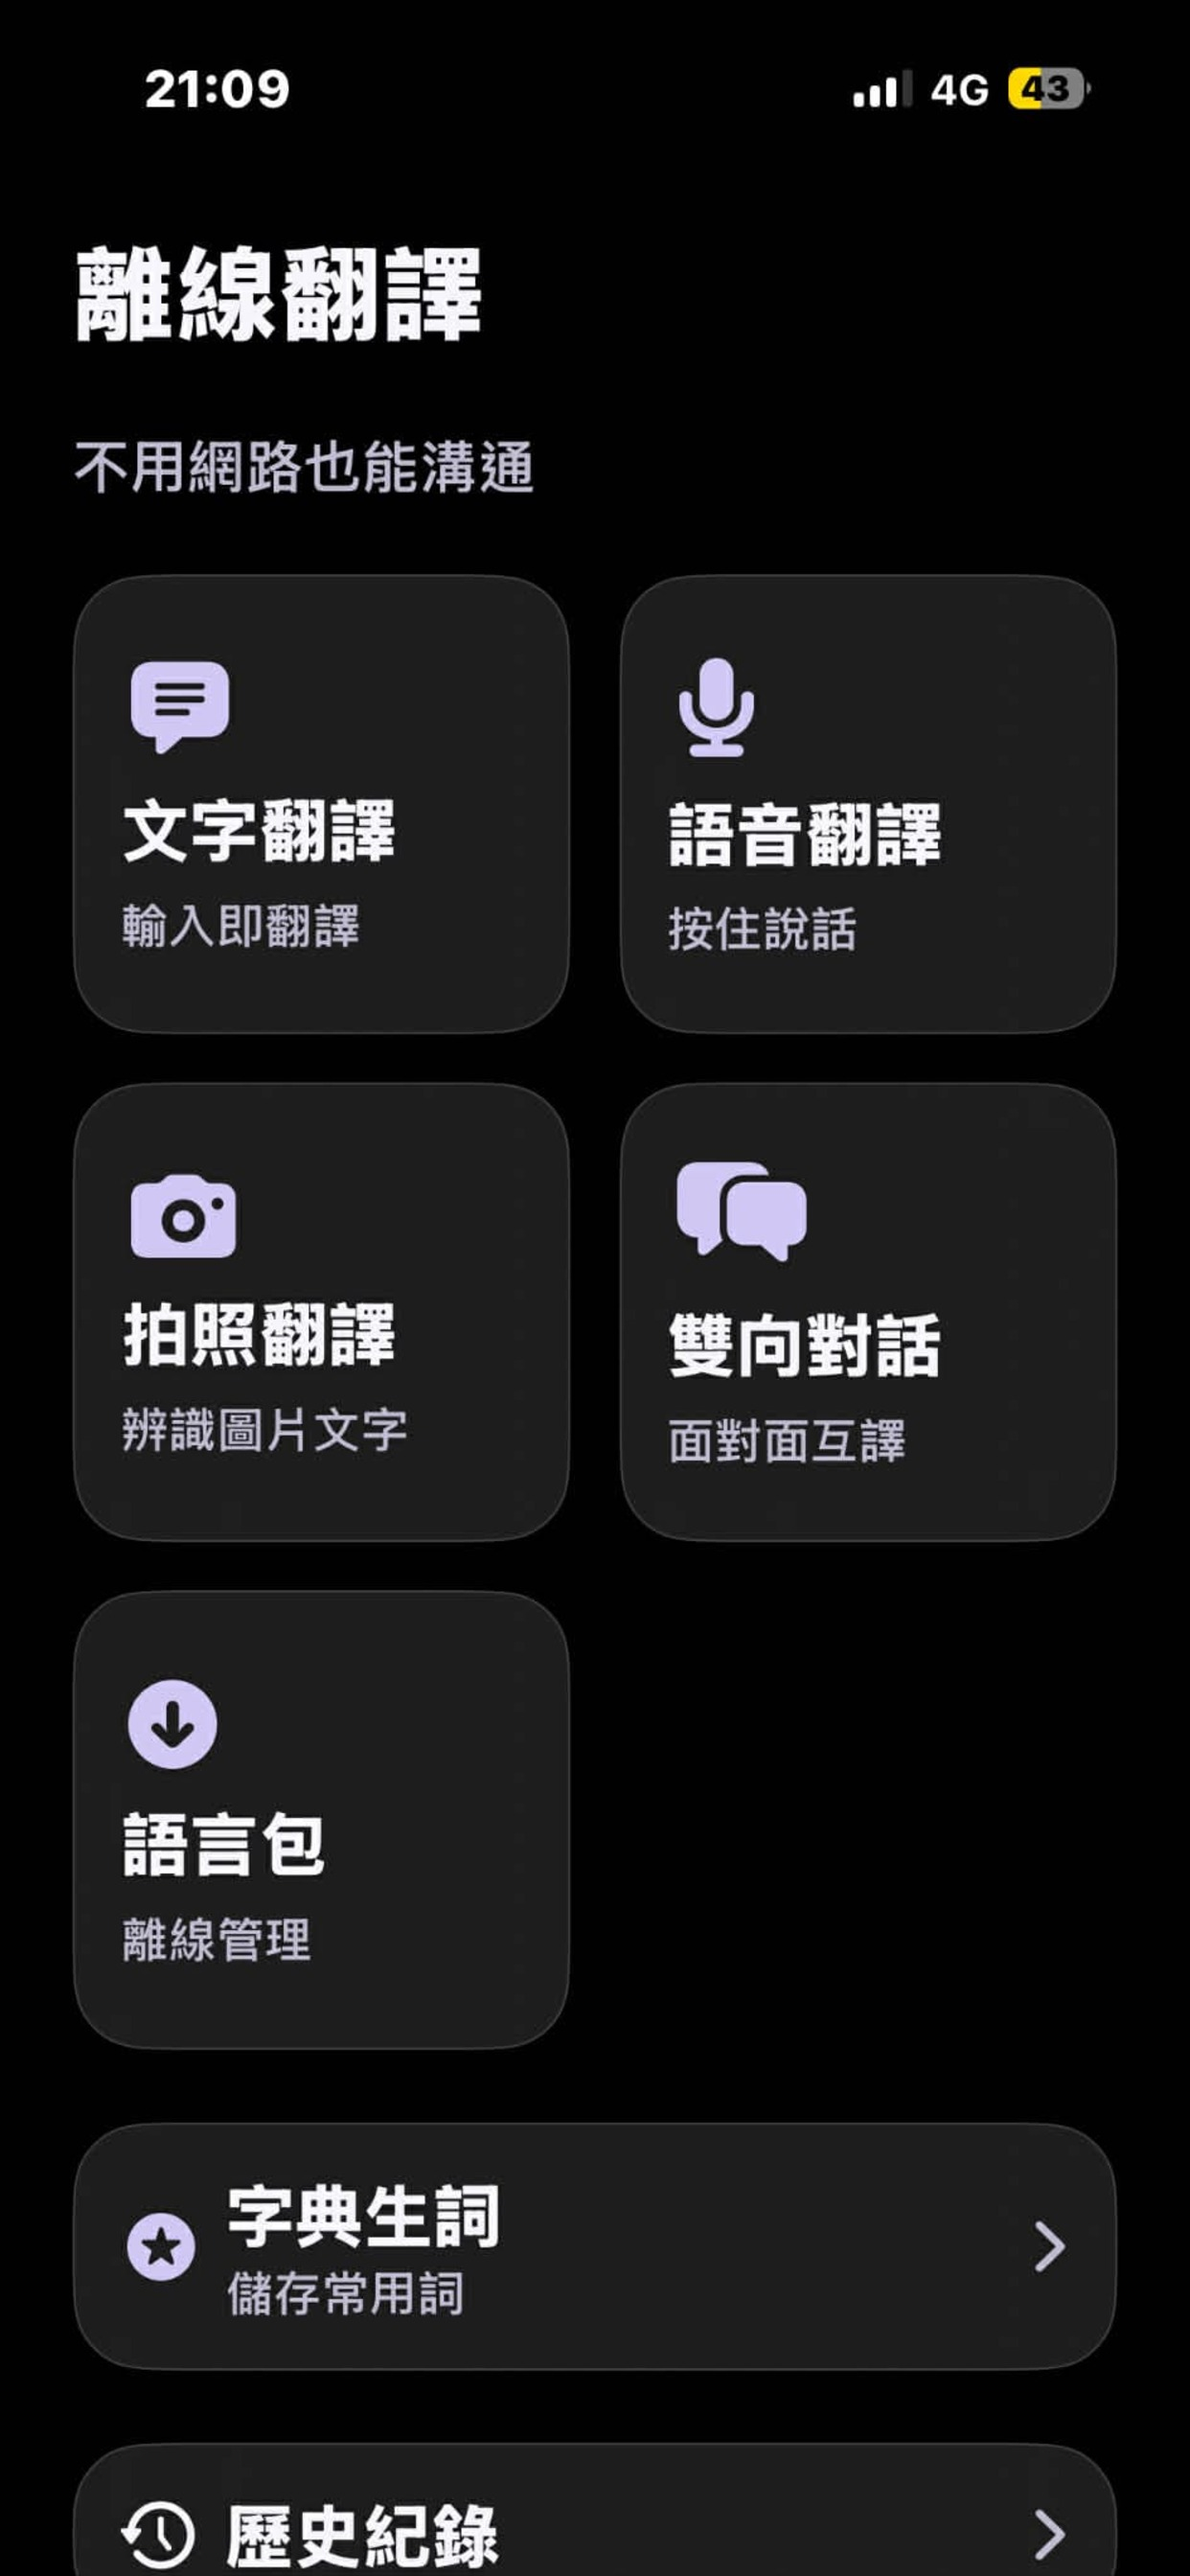
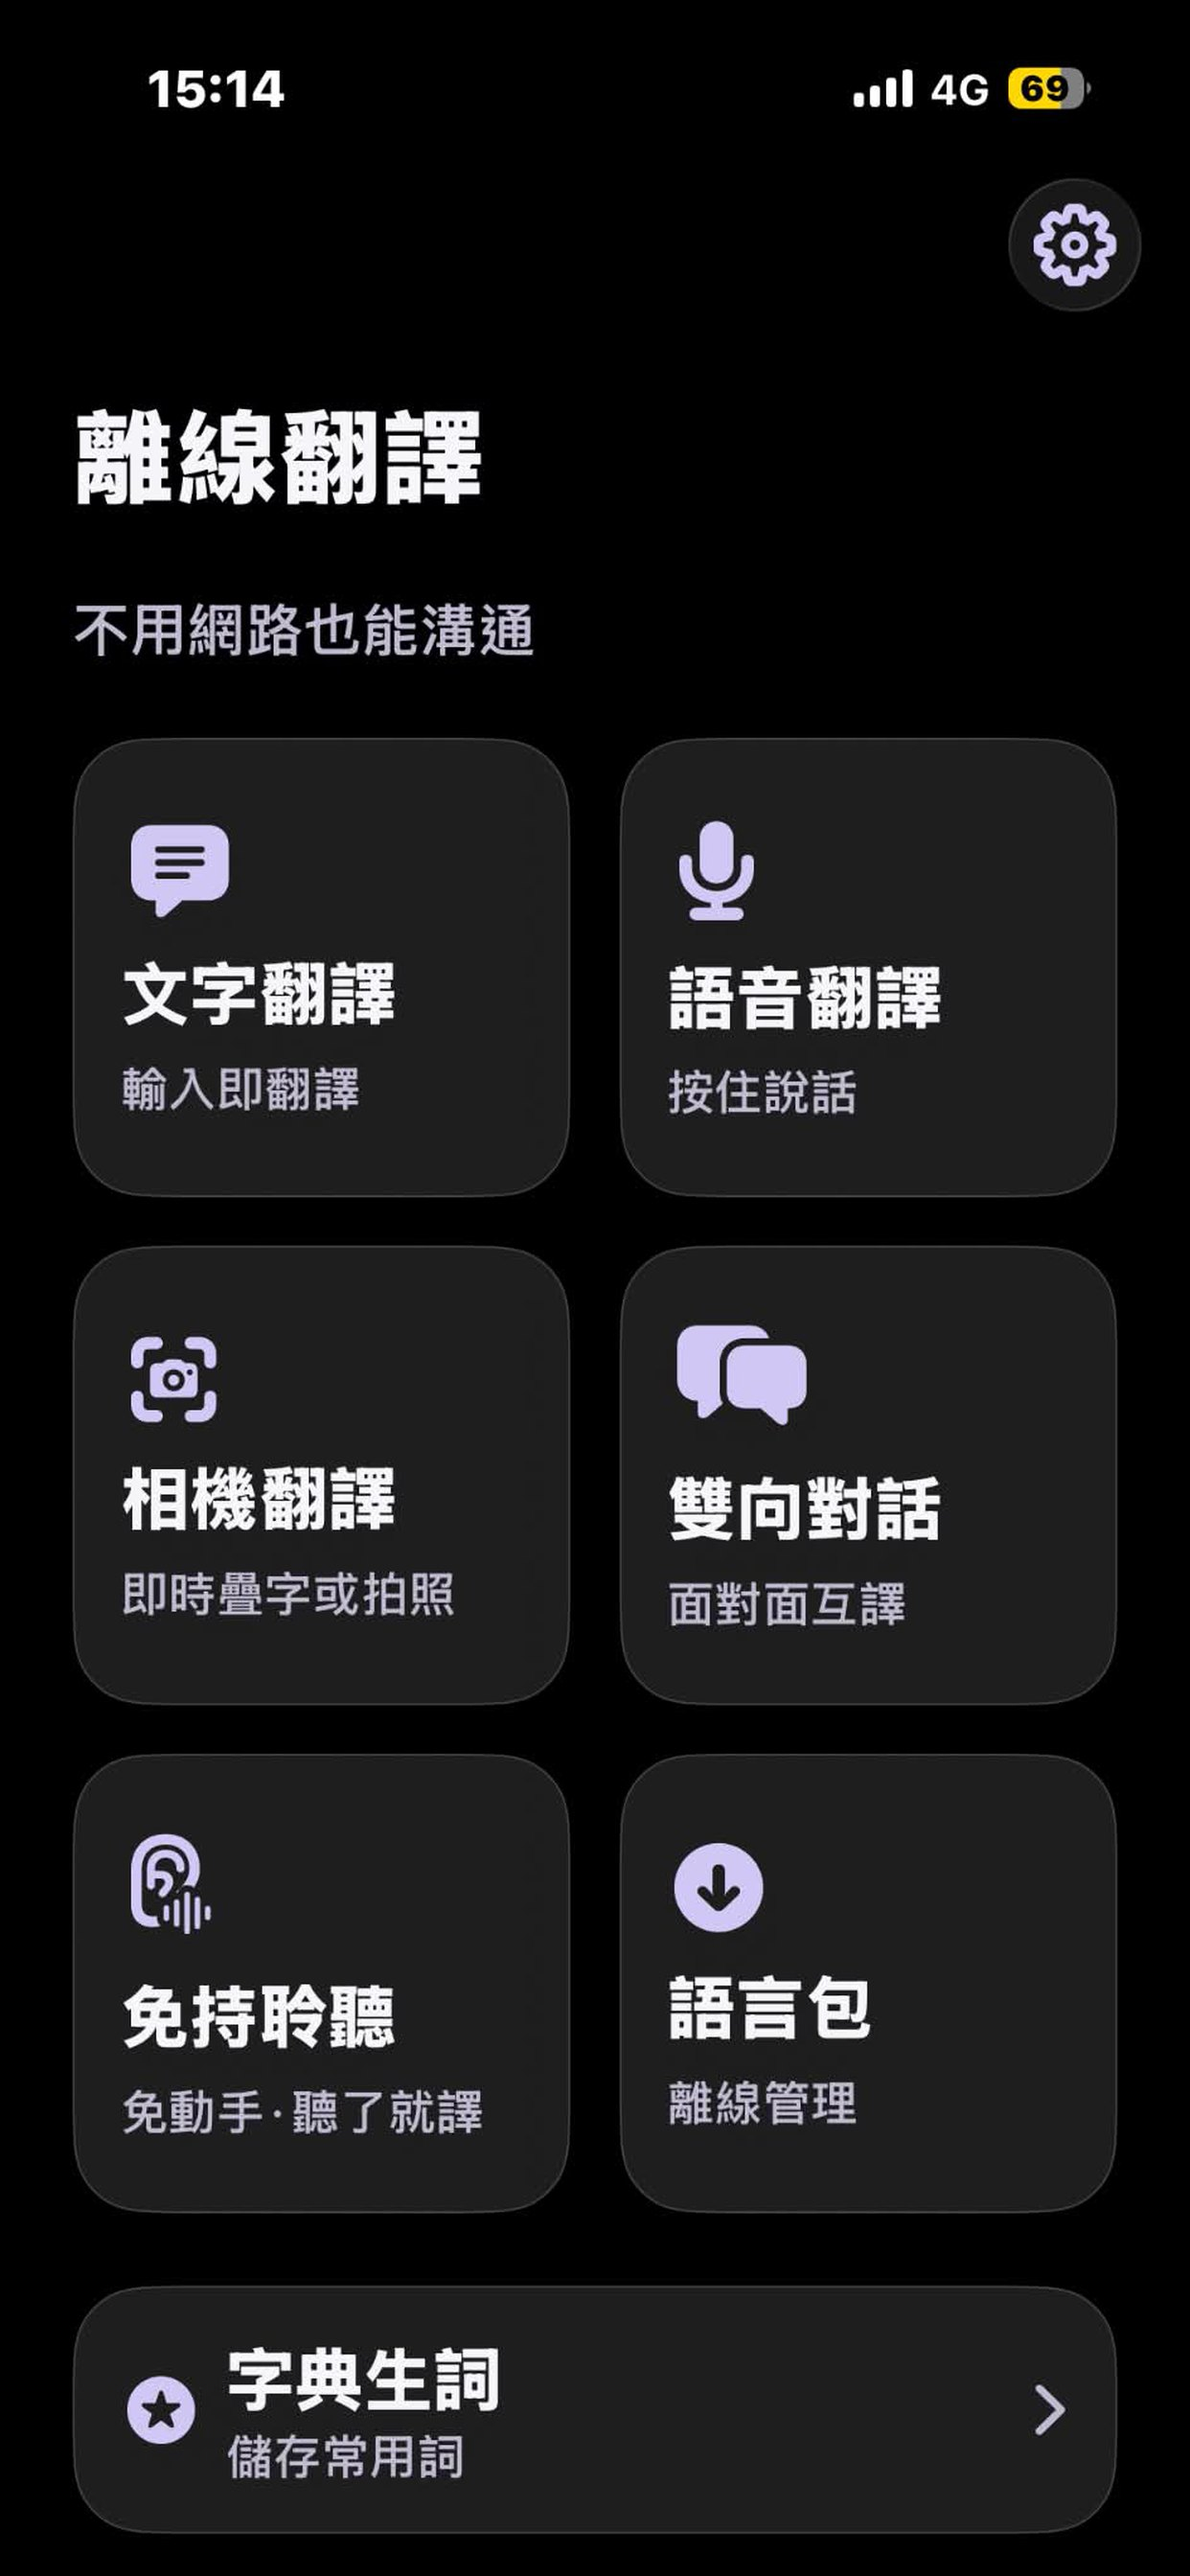
docs: 介紹頁更新為 1.5.0 功能（相機翻譯、免持聆聽、預設翻譯模式）
- 功能卡由 4 張改為 6 張；拍照翻譯 → 相機翻譯；新增免持聆聽、預設翻譯模式
- 主畫面截圖換成 1.5.0 新版；移除已不存在的拍照翻譯截圖
- 語音辨識描述改為準確說法（優先使用裝置端；免持模式僅限裝置端）
- FAQ 新增預設翻譯模式

diff --git a/docs/index.html b/docs/index.html
@@ -3,8 +3,8 @@
 <head>
 <meta charset="UTF-8">
 <meta name="viewport" content="width=device-width, initial-scale=1.0">
-<title>離線翻譯 Offline Translator · 14 種語言 拍照、對話即譯</title>
-<meta name="description" content="完全離線的翻譯 App。拍照疊圖、雙向對話、語音翻譯、文字翻譯。14 種語言互譯，零資料上傳，旅遊出差零訊號也能用。">
+<title>離線翻譯 Offline Translator · 14 種語言 相機、對話即譯</title>
+<meta name="description" content="完全離線的翻譯 App。相機疊圖、雙向對話、免持聆聽、語音翻譯、文字翻譯。14 種語言互譯，零資料上傳，旅遊出差零訊號也能用。">
 <meta name="theme-color" content="#0a1a3a">
 
 <!-- Apple Smart App Banner -->
@@ -12,7 +12,7 @@
 
 <!-- Open Graph / Twitter -->
 <meta property="og:title" content="離線翻譯 Offline Translator">
-<meta property="og:description" content="14 種語言 拍照、對話即譯。完全離線、零資料收集。">
+<meta property="og:description" content="14 種語言 相機、對話即譯。完全離線、零資料收集。">
 <meta property="og:image" content="https://mina0717.github.io/offline-translator-ios/images/app-icon.png">
 <meta property="og:url" content="https://mina0717.github.io/offline-translator-ios/">
 <meta property="og:type" content="website">
@@ -589,7 +589,7 @@
         <span class="h1-line accent">一個 App，全部離線翻譯。</span>
       </h1>
       <p class="lead">
-        14 種語言互譯。拍照即時疊圖、雙向對話手機平放兩人共用、語音即說即譯。
+        14 種語言互譯。相機即時疊圖、雙向對話手機平放兩人共用、免持聆聽不用動手，語音也能即說即譯。
         不上雲、不收集、零訊號也能用。
       </p>
 
@@ -618,7 +618,7 @@
         <img src="./images/screen-01-home.jpg" alt="離線翻譯 App 主頁畫面" loading="eager">
       </div>
       <div class="floating-chip chip-1">🇹🇼 → 🇺🇸  你好</div>
-      <div class="floating-chip chip-2">📷 拍照疊譯</div>
+      <div class="floating-chip chip-2">📷 相機疊譯</div>
       <div class="floating-chip chip-3">🇹🇷 Türkçe</div>
     </div>
   </div>
@@ -650,30 +650,37 @@
 <section class="block" id="features">
   <div class="wrap">
     <div class="section-head">
-      <div class="kicker">FOUR WAYS TO TRANSLATE</div>
-      <h2>四種翻譯方式，覆蓋所有場景</h2>
-      <p>從輸入文字、講出來、拍照片、到面對面對話 — 一個 App 解決日常所有翻譯需求。</p>
+      <div class="kicker">TRANSLATE YOUR WAY</div>
+      <h2>從鏡頭到對話，覆蓋所有場景</h2>
+      <p>從輸入文字、講出來、用鏡頭看、到面對面對話與免持聆聽 — 一個 App 解決日常所有翻譯需求。</p>
     </div>
 
     <div class="feature-grid">
       <article class="feature">
         <div class="feature-icon fi-1">📷</div>
-        <h3>拍照翻譯（疊圖）</h3>
-        <p>拍菜單、看板、商品標示，譯文直接疊在原文位置上。點任一塊查看完整大字版，全螢幕縮放細看。</p>
-        <span class="tag">圖片即時辨識</span>
+        <h3>相機翻譯（即時疊圖）</h3>
+        <p>鏡頭對準菜單、看板、商品標示，譯文即時疊在原文位置上。按下快門可凍結畫面慢慢讀，也能直接從相簿選圖翻譯。</p>
+        <span class="tag">即時疊字・快門・相簿</span>
       </article>
 
       <article class="feature">
         <div class="feature-icon fi-2">💬</div>
         <h3>雙向對話模式</h3>
-        <p>手機平放兩人之間，畫面上下分割。上半 180° 翻轉給對方看，下半你自己看。一鍵切換語言、歷史完整保存。</p>
+        <p>手機平放兩人之間，畫面上下分割。上半 180° 翻轉給對方看，下半你自己看。一鍵切換語言、歷史完整保存；也有免持模式，靜音時自動斷句。</p>
         <span class="tag">面對面溝通最方便</span>
+      </article>
+
+      <article class="feature">
+        <div class="feature-icon fi-3">👂</div>
+        <h3>免持聆聽</h3>
+        <p>不用一直按著按鈕。App 聽對方說話，講完一句譯文就自動出現，字體放大好閱讀。需要該語言支援裝置端語音辨識。</p>
+        <span class="tag">免動手・聽了就譯</span>
       </article>
 
       <article class="feature">
         <div class="feature-icon fi-3">🎤</div>
         <h3>語音翻譯</h3>
-        <p>按住麥克風說話，自動辨識 → 翻譯 → 顯示譯文。鬆開即停。支援裝置端語音辨識，連辨識都不上雲。</p>
+        <p>按住麥克風說話，自動辨識 → 翻譯 → 顯示譯文。鬆開即停。優先使用裝置端語音辨識。</p>
         <span class="tag">即說即譯</span>
       </article>
 
@@ -682,6 +689,13 @@
         <h3>文字翻譯</h3>
         <p>輸入文字立即翻譯。長文案、句子、單字都行。歷史紀錄本機保存隨時回顧。</p>
         <span class="tag">最基本也最常用</span>
+      </article>
+
+      <article class="feature">
+        <div class="feature-icon fi-1">📌</div>
+        <h3>預設翻譯模式</h3>
+        <p>設定頁選一個最常用的功能，或在主畫面長按功能格設為啟動畫面。之後開啟 App 就直接進入，按返回仍可回到主畫面。</p>
+        <span class="tag">開啟即用</span>
       </article>
     </div>
   </div>
@@ -757,8 +771,8 @@
     </div>
     <div class="screens">
       <figure class="screen">
-        <img src="./images/screen-01-home.jpg" alt="離線翻譯 App 首頁 — 文字翻譯、語音翻譯、拍照翻譯、雙向對話" loading="lazy">
-        <figcaption class="screen-cap">主畫面 · 四種翻譯模式一鍵切換</figcaption>
+        <img src="./images/screen-01-home.jpg" alt="離線翻譯 App 首頁 — 文字翻譯、語音翻譯、相機翻譯、雙向對話、免持聆聽" loading="lazy">
+        <figcaption class="screen-cap">主畫面 · 多種翻譯模式一鍵切換</figcaption>
       </figure>
       <figure class="screen">
         <img src="./images/screen-02-text.jpg" alt="文字翻譯模式 — 中文輸入即譯英文" loading="lazy">
@@ -769,16 +783,12 @@
         <figcaption class="screen-cap">語音翻譯 · 按住說話</figcaption>
       </figure>
       <figure class="screen">
-        <img src="./images/screen-04-photo.jpg" alt="拍照翻譯入口 — 從相機或相簿選圖" loading="lazy">
-        <figcaption class="screen-cap">拍照翻譯 · 相機或相簿</figcaption>
-      </figure>
-      <figure class="screen">
         <img src="./images/screen-05-langpack.jpg" alt="語言包離線管理 — 下載後永久可用" loading="lazy">
         <figcaption class="screen-cap">語言包 · 離線下載管理</figcaption>
       </figure>
       <figure class="screen">
-        <img src="./images/screen-06-dict.jpg" alt="字典生詞本 — 翻譯結果一鍵收藏" loading="lazy">
-        <figcaption class="screen-cap">字典生詞 · 隨身單字本</figcaption>
+        <img src="./images/screen-06-dict.jpg" alt="生詞本 — 翻譯結果一鍵收藏" loading="lazy">
+        <figcaption class="screen-cap">生詞本 · 隨身單字本</figcaption>
       </figure>
     </div>
   </div>
@@ -793,9 +803,9 @@
       <p>不論你是在地球的哪個角落、有沒有訊號，都能用。</p>
     </div>
     <div class="usecases">
-      <div class="uc"><div class="emoji">✈</div><h4>出國旅遊</h4><p>菜單、看板、車站名稱拍照即譯，無漫遊也能用。</p></div>
-      <div class="uc"><div class="emoji">🍽</div><h4>餐廳點餐</h4><p>看不懂的菜單拍下來，譯文直接疊在原文位置。</p></div>
-      <div class="uc"><div class="emoji">🤝</div><h4>面對面對話</h4><p>手機平放兩人共用，雙向對話模式輪流發言。</p></div>
+      <div class="uc"><div class="emoji">✈</div><h4>出國旅遊</h4><p>菜單、看板、車站名稱用相機即譯，無漫遊也能用。</p></div>
+      <div class="uc"><div class="emoji">🍽</div><h4>餐廳點餐</h4><p>看不懂的菜單用鏡頭一照，譯文直接疊在原文位置。</p></div>
+      <div class="uc"><div class="emoji">🤝</div><h4>面對面對話</h4><p>手機平放兩人共用，雙向對話輪流發言；或開免持聆聽，聽了就譯。</p></div>
       <div class="uc"><div class="emoji">📚</div><h4>語言學習</h4><p>查單字、片語立即儲存到生詞本，依日期回顧。</p></div>
       <div class="uc"><div class="emoji">💼</div><h4>商務出差</h4><p>合約、簡報內容翻譯不上雲，符合企業隱私要求。</p></div>
       <div class="uc"><div class="emoji">🔒</div><h4>隱私至上</h4><p>不想用雲端 App、不想留足跡的人。</p></div>
@@ -813,7 +823,7 @@
     </div>
     <div class="tech-grid">
       <div class="tech-item"><strong>Translation Framework</strong><span>Apple iOS 18 系統翻譯，Neural Engine 加速</span></div>
-      <div class="tech-item"><strong>Speech Recognition</strong><span>支援 on-device 模式，可關閉雲端</span></div>
+      <div class="tech-item"><strong>Speech Recognition</strong><span>優先使用 on-device 辨識；免持模式僅限裝置端</span></div>
       <div class="tech-item"><strong>Vision Framework</strong><span>OCR 圖片文字辨識，完全本機</span></div>
       <div class="tech-item"><strong>AVSpeechSynthesizer</strong><span>譯文朗讀，使用者主動觸發</span></div>
       <div class="tech-item"><strong>SwiftUI + SwiftData</strong><span>原生 UI 與本機資料儲存</span></div>
@@ -834,7 +844,7 @@
     <div class="faq">
       <details open>
         <summary>真的完全不需要網路嗎？</summary>
-        <p>翻譯本身完全離線。唯一會用到網路的是「首次下載 Apple 語言包」（一次下載永久使用，由 iOS 系統處理）和「iOS 系統內建的更新檢查」。實際翻譯文字、辨識語音、辨識圖片文字，全部在你的 iPhone 上完成。</p>
+        <p>翻譯本身完全離線。唯一會用到網路的是「首次下載 Apple 語言包」（一次下載永久使用，由 iOS 系統處理）和「iOS 系統內建的更新檢查」。實際翻譯文字與辨識圖片文字都在你的 iPhone 上完成；語音辨識優先使用裝置端辨識（免持模式只用裝置端）。</p>
       </details>
       <details>
         <summary>支援哪些語言？</summary>
@@ -855,6 +865,10 @@
       <details>
         <summary>語言包要多大？</summary>
         <p>每組語言對約 80-200 MB，由 iOS 系統下載。第一次使用某語言對時會跳出系統下載 sheet，下載後永久可用。</p>
+      </details>
+      <details>
+        <summary>可以設定開啟 App 就進入某個功能嗎？</summary>
+        <p>可以。到設定頁的「啟動畫面」選一個功能，或在主畫面長按功能格選「設為啟動畫面」。之後開啟 App 會直接進入，按返回仍可回到主畫面；想還原就改回「主畫面」。</p>
       </details>
       <details>
         <summary>有問題或建議怎麼回報？</summary>
